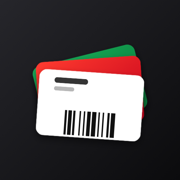
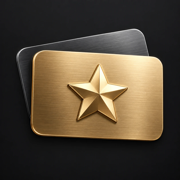
Nuova icona (carta d'oro con stella) e titolo «Carte»

diff --git a/app.js b/app.js
@@ -1,6 +1,6 @@
 // Le mie carte — carte fedeltà dei negozi con codice a barre e punti.
 // Le carte sono salvate sul telefono (memoria del browser): niente account, niente server.
-export const VERSIONE = '2';
+export const VERSIONE = '3';
 
 // ---------- I negozi (colori e scritte, simili a quelli veri) ----------
 const SERIF = "'Didot','Bodoni 72','Playfair Display',Georgia,serif";
@@ -309,10 +309,10 @@ function caricaZXing() {
   if (zx) return zx;
   zx = new Promise((ok, no) => {
     const s = document.createElement('script');
-    s.src = 'lib/zxing.js?v=2';
+    s.src = 'lib/zxing.js?v=3';
     s.onload = () => {
       ZXingWASM.prepareZXingModule({
-        overrides: { locateFile: (p, prefix) => p.endsWith('.wasm') ? new URL('lib/zxing_full.wasm?v=2', location.href).href : prefix + p },
+        overrides: { locateFile: (p, prefix) => p.endsWith('.wasm') ? new URL('lib/zxing_full.wasm?v=3', location.href).href : prefix + p },
         fireImmediately: true
       }).then(() => ok(ZXingWASM), no);
     };

diff --git a/index.html b/index.html
@@ -9,11 +9,11 @@
 <meta name="mobile-web-app-capable" content="yes">
 <meta name="apple-mobile-web-app-status-bar-style" content="default">
 <meta name="apple-mobile-web-app-title" content="Carte">
-<link rel="apple-touch-icon" href="icona-180.png">
-<link rel="icon" href="icona-192.png">
+<link rel="apple-touch-icon" href="icona-180.png?v=3">
+<link rel="icon" href="icona-192.png?v=3">
 <link rel="manifest" href="manifest.json">
-<title>Le mie carte</title>
-<link rel="stylesheet" href="stile.css?v=2">
+<title>Carte</title>
+<link rel="stylesheet" href="stile.css?v=3">
 </head>
 <body>
 
@@ -80,6 +80,6 @@
 
 <div class="avviso" id="avviso"></div>
 
-<script type="module" src="app.js?v=2"></script>
+<script type="module" src="app.js?v=3"></script>
 </body>
 </html>

diff --git a/README.md b/README.md
@@ -1,4 +1,4 @@
-# Le mie carte
+# Carte
 
 Carte fedeltà dei negozi sul telefono: codice a barre e punti.
 
